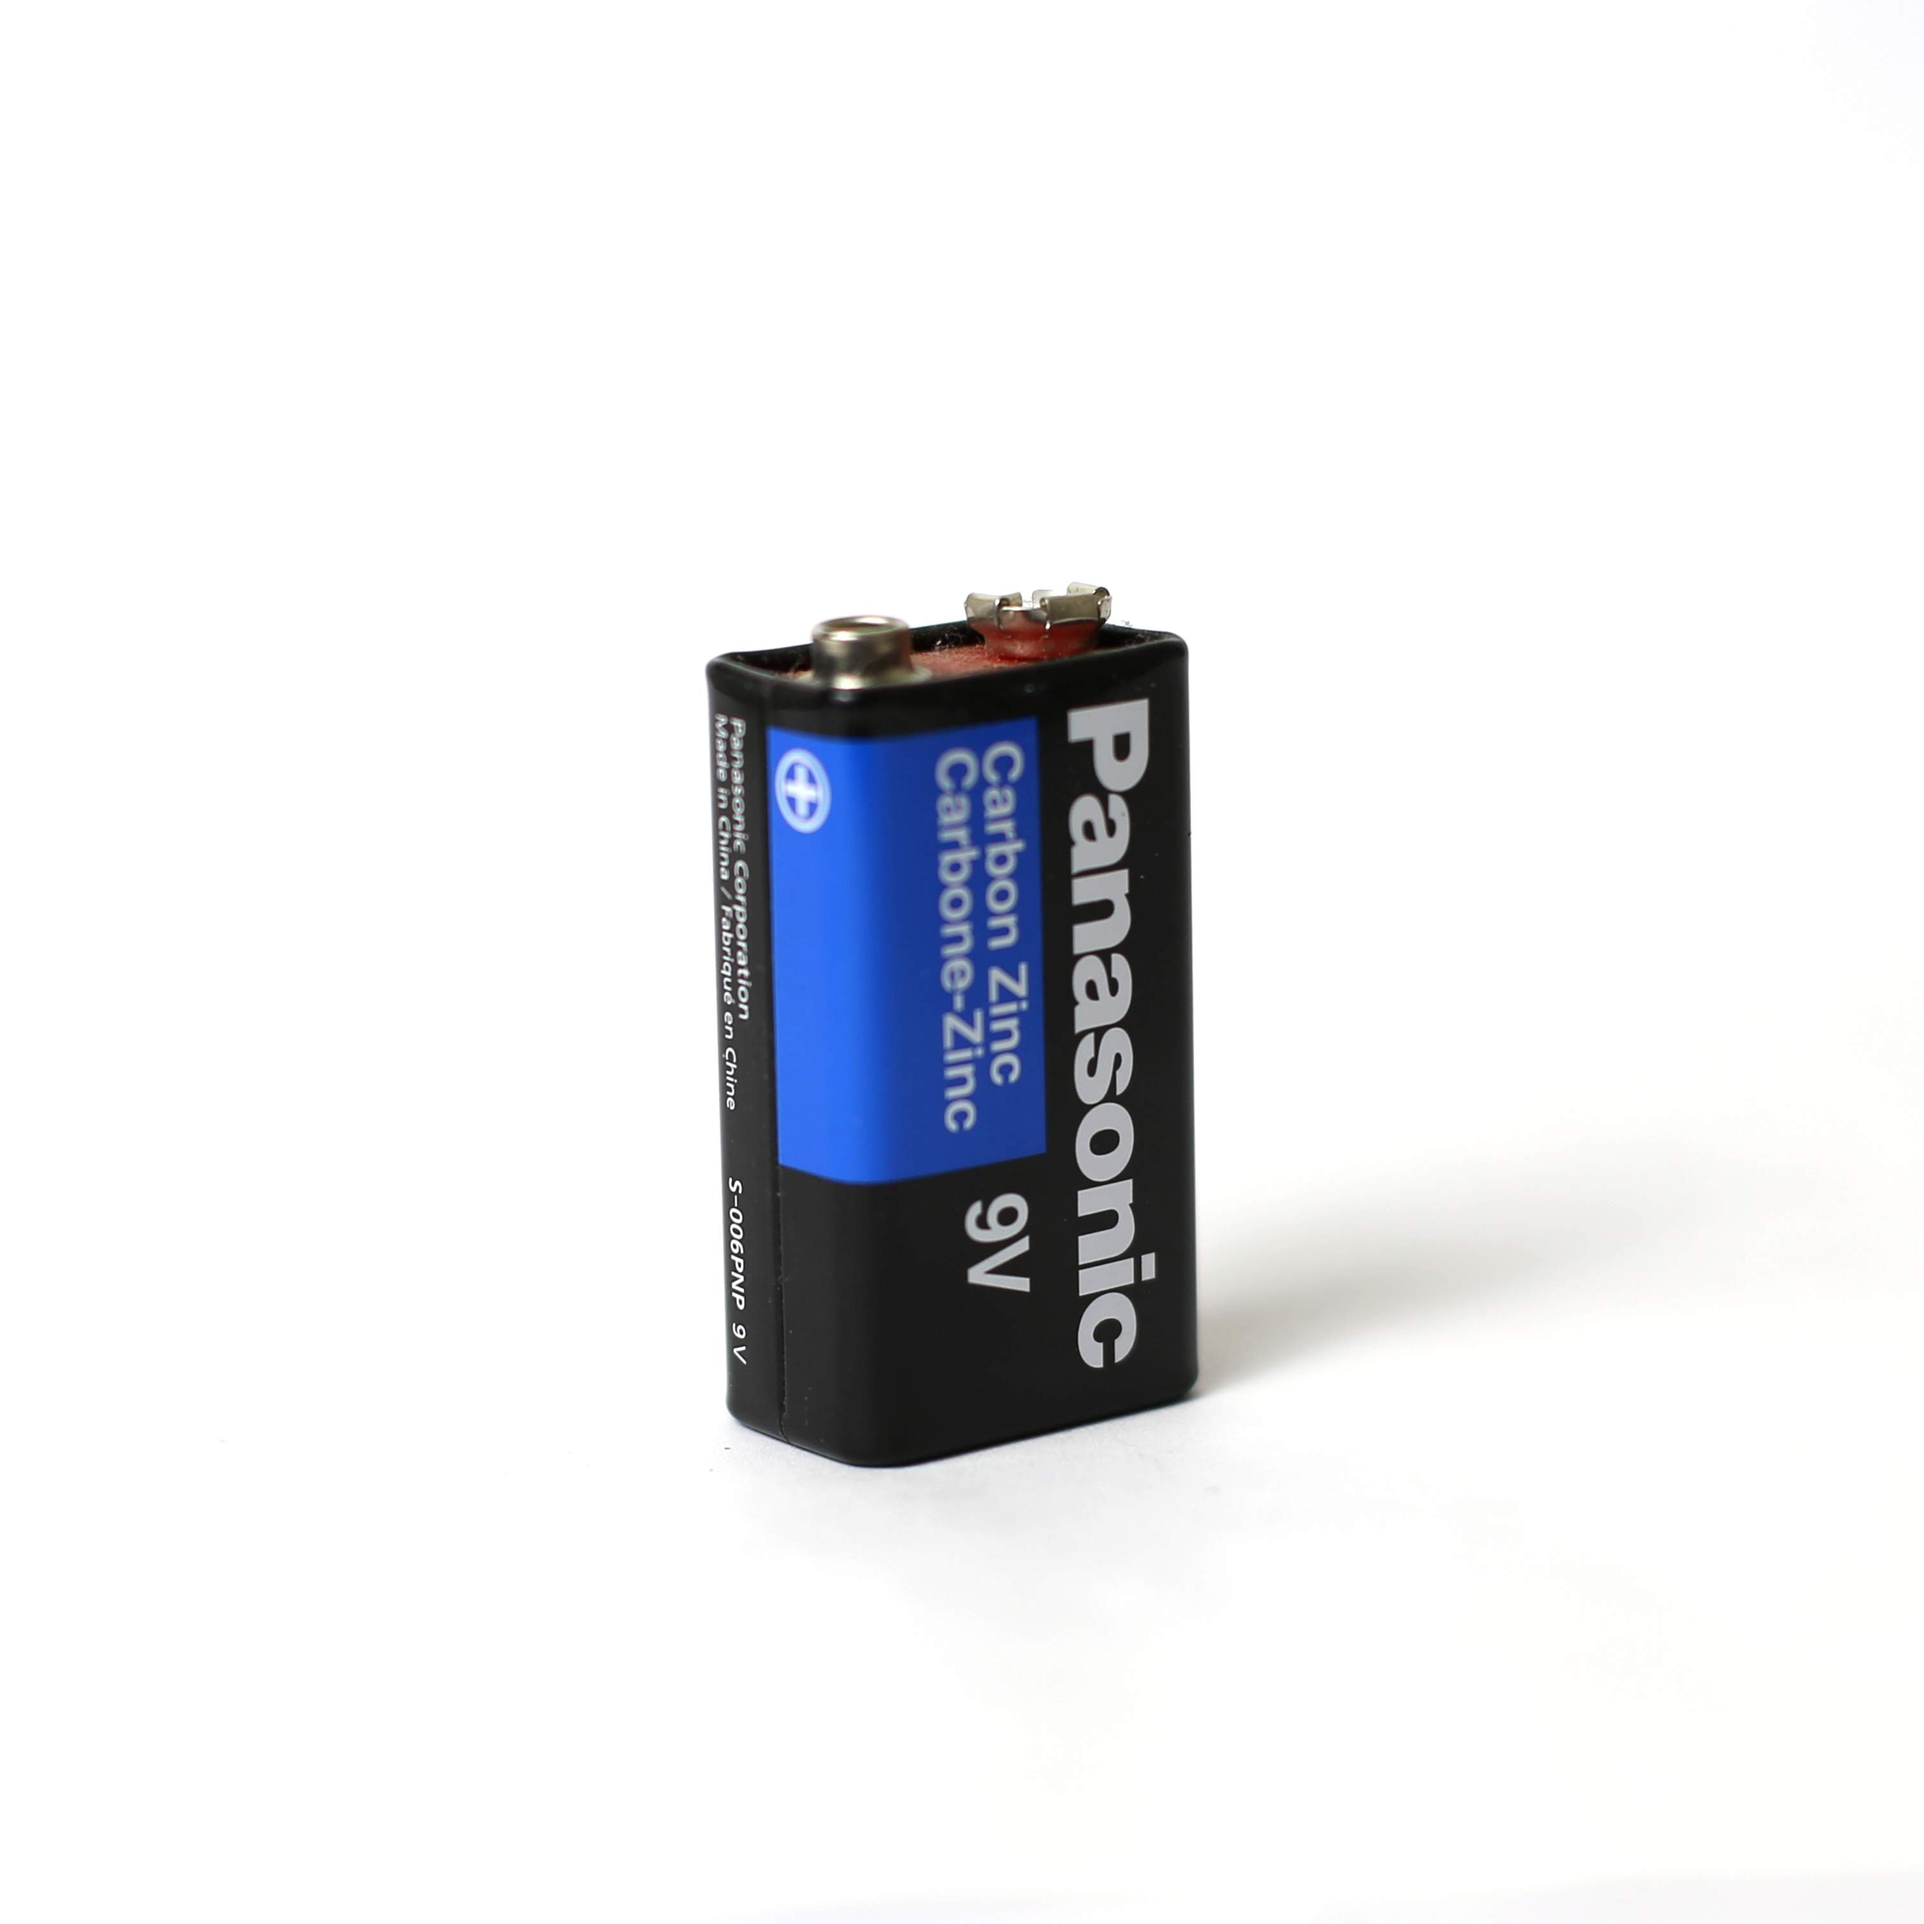
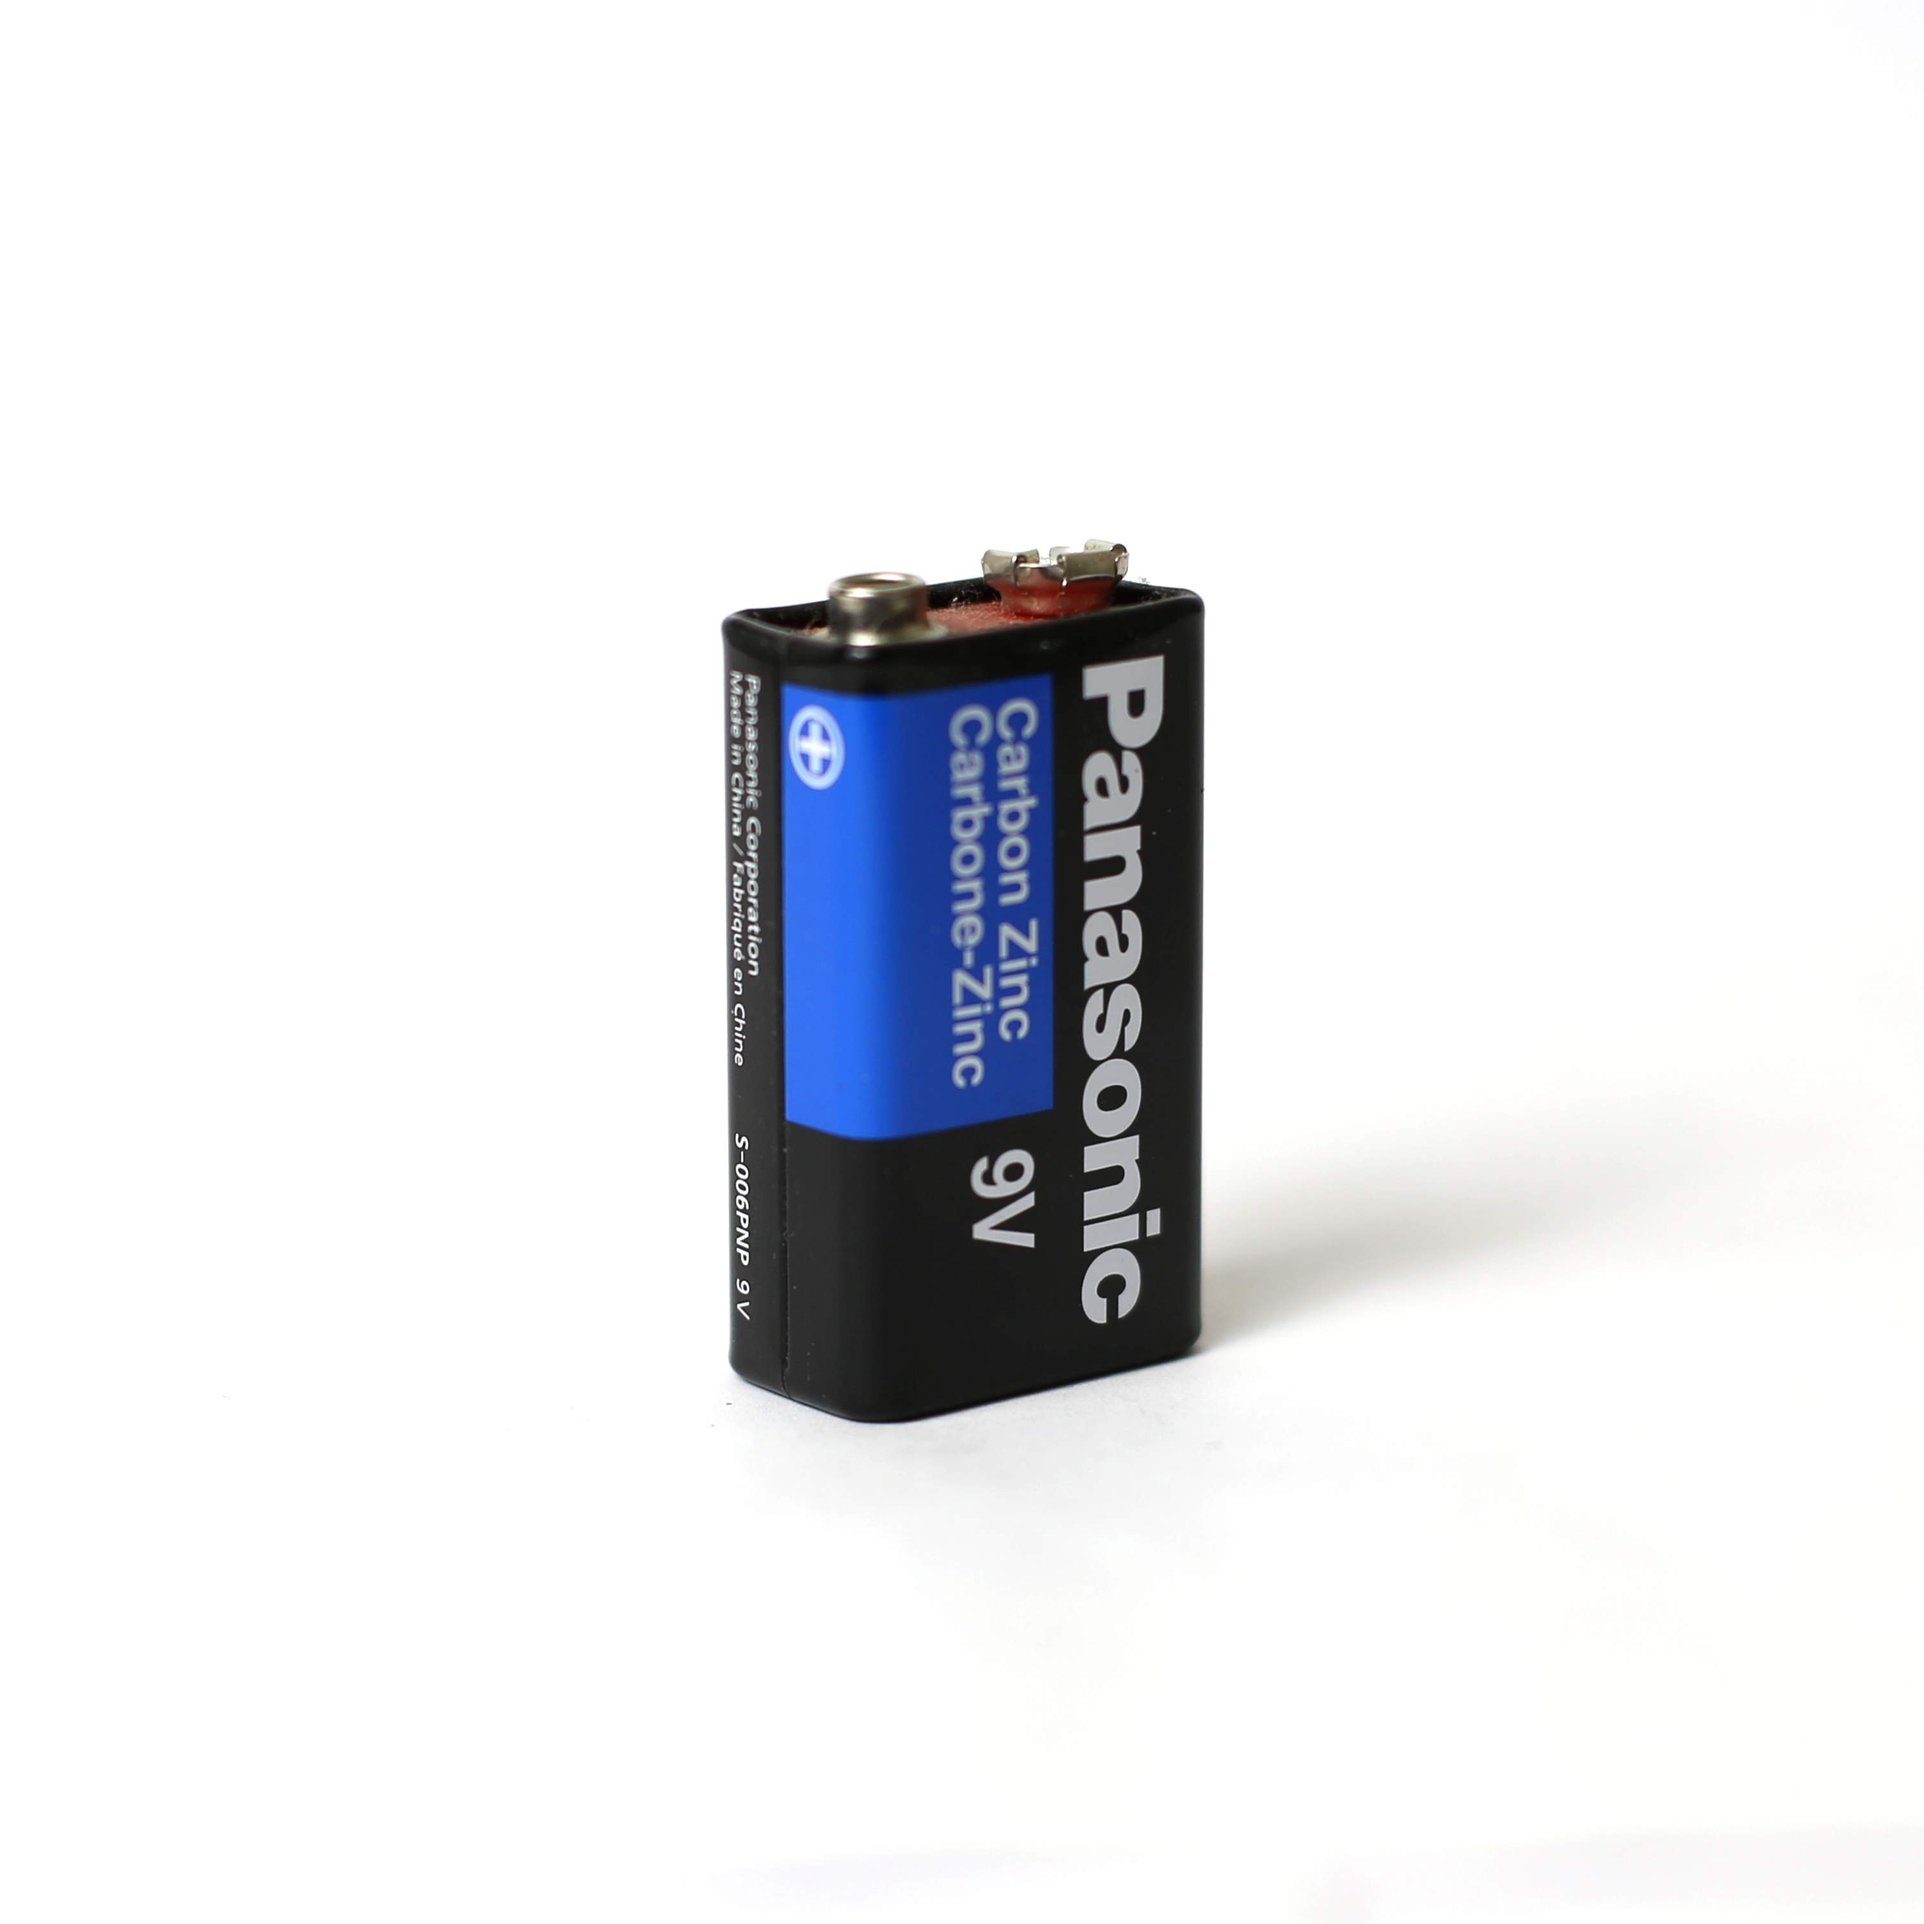
positioning fix and + change drop shadow to box shadows

Changed region(s): [[0.341, 0.279, 0.775, 0.775]]

diff --git a/index.css b/index.css
@@ -82,7 +82,7 @@ button img{
 
 .lights-on-container figure img{
     height: 100%;
-    filter: drop-shadow(0 0 2px black);
+    box-shadow: 0 0 4px black;
 }
 
 .lights-on-container figure:nth-of-type(1){
@@ -115,6 +115,10 @@ button img{
 .lights-off-container{
     display: none;
     position: fixed;
+    top: 0;
+    bottom: 0;
+    left: 0;
+    right: 0;
 }
 
 .sketch-container{
@@ -142,6 +146,7 @@ button img{
     max-width: 100%;
     max-height: 100%;
     /* border: 1px solid blue; */
+    z-index: -1;
 }
 
 .sketch-container .secondary-sketch-container{
@@ -150,7 +155,7 @@ button img{
     display: flex;
     align-items: center;
     justify-content: center;
-    filter: drop-shadow(0 0 2px grey);
+    box-shadow: 0 0 4px grey;
 }
 
 .sketch-container .secondary-sketch-container img{
